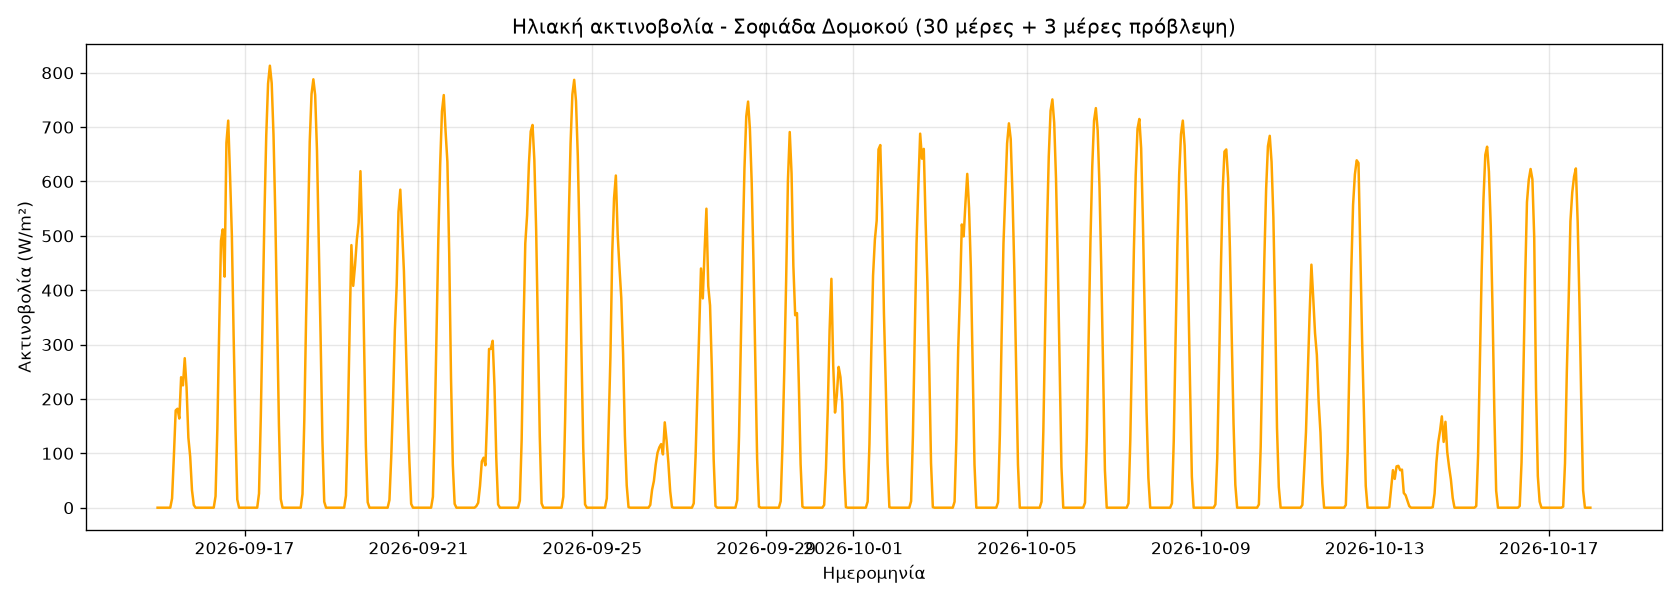
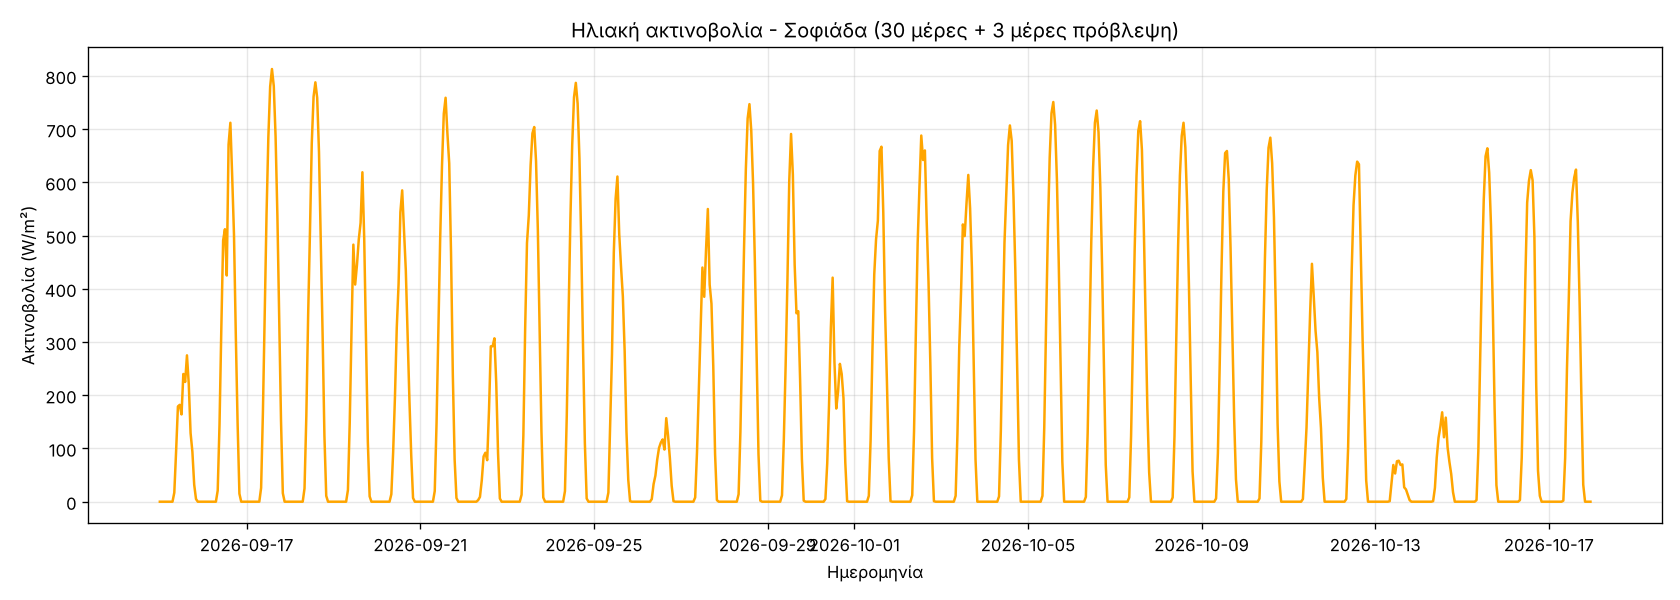
Σοφιάδα παντού

diff --git a/01_kairos.py b/01_kairos.py
@@ -1,6 +1,6 @@
 # ============================================================
 # 01_kairos.py
-# Κατεβάζει δεδομένα καιρού για τη Σοφιάδα Δομοκού από το Open-Meteo
+# Κατεβάζει δεδομένα καιρού για τη Σοφιάδα από το Open-Meteo
 # (δωρεάν, χωρίς κλειδί) και φτιάχνει ένα γράφημα ηλιακής ακτινοβολίας.
 # ============================================================
 
@@ -48,7 +48,7 @@ print("Αποθηκεύτηκε στο kairos_sofiada.csv")
 # --- 4. Γράφημα ---
 plt.figure(figsize=(14, 5))
 plt.plot(df["time"], df["shortwave_radiation"], color="orange")
-plt.title("Ηλιακή ακτινοβολία - Σοφιάδα Δομοκού (30 μέρες + 3 μέρες πρόβλεψη)")
+plt.title("Ηλιακή ακτινοβολία - Σοφιάδα (30 μέρες + 3 μέρες πρόβλεψη)")
 plt.xlabel("Ημερομηνία")
 plt.ylabel("Ακτινοβολία (W/m²)")
 plt.grid(alpha=0.3)

diff --git a/config.py b/config.py
@@ -5,7 +5,7 @@
 # Η ΑΚΡΙΒΗΣ θέση του πάρκου ΔΕΝ γράφεται εδώ (ο κώδικας θα είναι δημόσιος στο GitHub).
 # Διαβάζεται από το αρχείο ".env", που μένει ΜΟΝΟ στον υπολογιστή σου
 # (το .gitignore το εμποδίζει να ανέβει).
-# Αν δεν υπάρχει .env, χρησιμοποιούμε μια ΣΤΡΟΓΓΥΛΕΜΕΝΗ θέση (περιοχή Δομοκού),
+# Αν δεν υπάρχει .env, χρησιμοποιούμε μια ΣΤΡΟΓΓΥΛΕΜΕΝΗ θέση (περιοχή Σοφιάδας),
 # ώστε όποιος κατεβάσει το project να μπορεί να το τρέξει.
 # ============================================================
 import os

diff --git a/README.md b/README.md
@@ -3,7 +3,7 @@
 > 🇬🇧 **[English version →](README.en.md)**
 
 Ένα ολοκληρωμένο σύστημα Machine Learning που μαθαίνει πώς **ο καιρός καθορίζει την παραγωγή** ενός πραγματικού
-φωτοβολταϊκού πάρκου 500 kW στην κεντρική Ελλάδα (δεδομένα από το Huawei FusionSolar). Το χρησιμοποιεί για να:
+φωτοβολταϊκού πάρκου 500 kW στη Σοφιάδα της κεντρικής Ελλάδας (δεδομένα από το Huawei FusionSolar). Το χρησιμοποιεί για να:
 
 1. **Προβλέπει** την ωριαία παραγωγή (kWh) των επόμενων ημερών από την πρόγνωση του καιρού
 2. **Μαθαίνει από καθαρά δεδομένα.** Οι ώρες που το πάρκο είχε περικοπή ή ήταν εκτός λειτουργίας εντοπίζονται και βγαίνουν από την εκπαίδευση, ώστε το μοντέλο να μάθει την κανονική συμπεριφορά του πάρκου.

diff --git a/README.en.md b/README.en.md
@@ -3,7 +3,7 @@
 > 🇬🇷 **[Ελληνική έκδοση →](README.md)** · Code comments are in Greek.
 
 An end-to-end machine learning pipeline that learns how **weather drives the output** of a real 500 kW
-photovoltaic park in central Greece (Huawei FusionSolar data), and uses it to:
+photovoltaic park in Sofiada, central Greece (Huawei FusionSolar data), and uses it to:
 
 1. **Forecast** hourly energy production (kWh) for the next days from the weather forecast
 2. **Learn from clean data** — hours when the park was curtailed or offline are detected and excluded from training, so the model learns the park's normal behaviour
